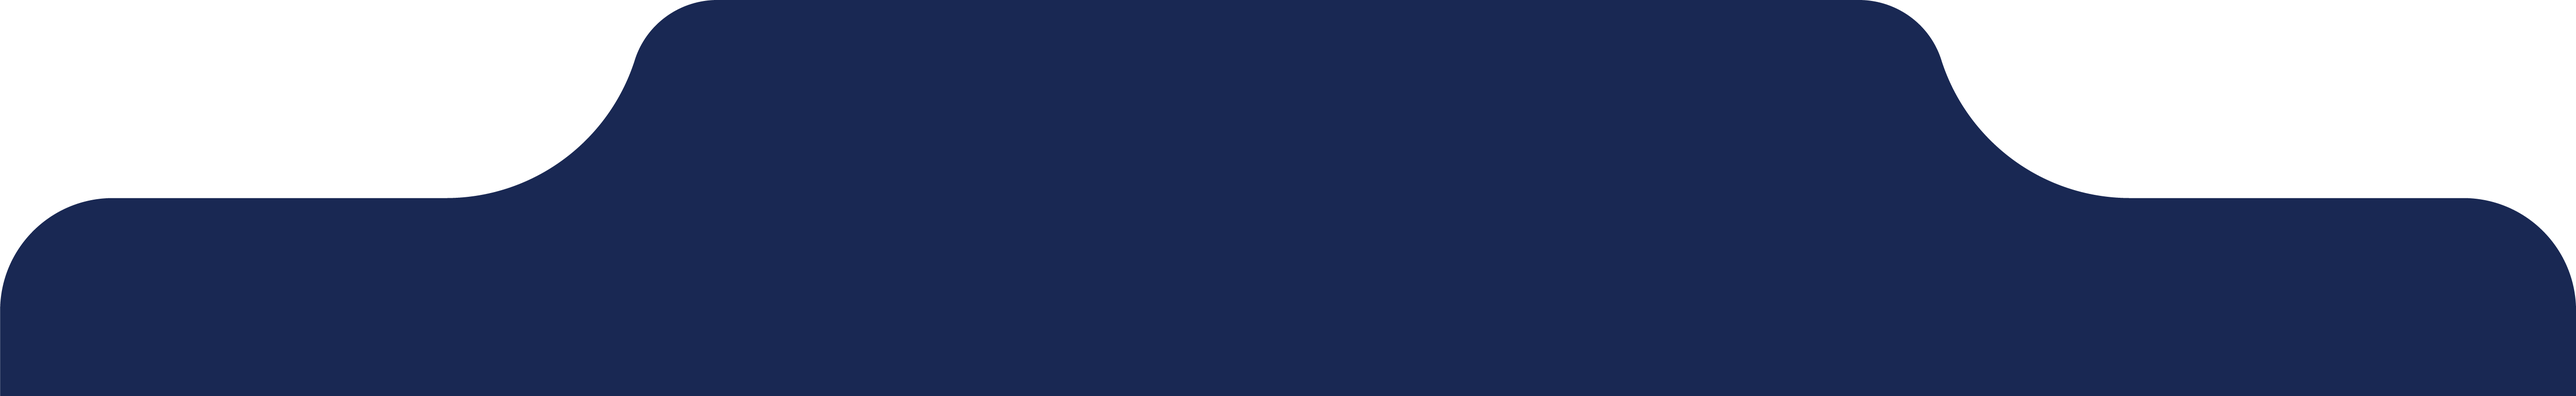
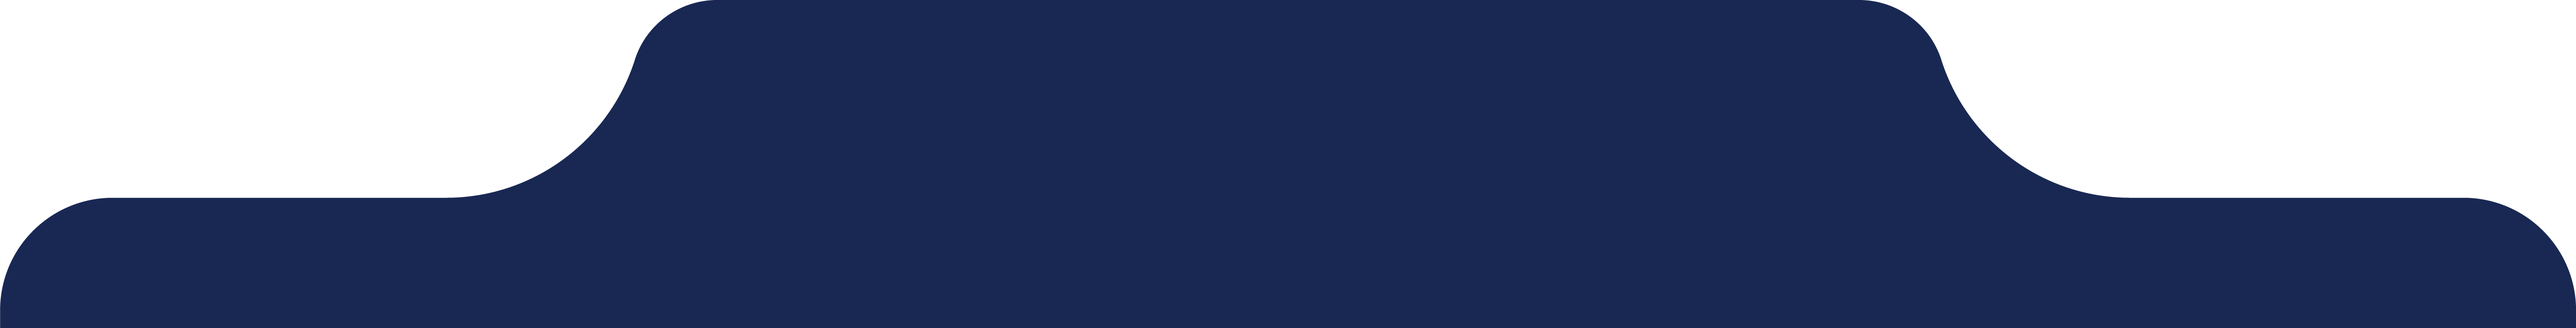
alignment fixed

Changed region(s): [[0.7488, 0.2431, 1.0, 0.9117], [0.0, 0.2431, 0.2496, 0.8205]]

diff --git a/src/Components/HomePage.jsx b/src/Components/HomePage.jsx
@@ -658,9 +658,9 @@ class HomePage extends Component {
                     </div>
 
                     {/* testimonial */}
-                    {/* <div className="container-fluid p-xl position-relative py-5">
+                    <div className="container-fluid p-xl position-relative py-5">
                         <div className="col-12 position-relative">
-                            <div className="shape_parent_sec" style={{height: '85%'}}>
+                            <div className="shape_parent_sec testimonial_sec_parent">
                                 <img src="assets/images/shapes/cropped-shape/shape-3-1.png" className="w-100 shape_c shape_top" alt="" />
                                 <div className="middle_shape"></div>
                                 <img src="assets/images/shapes/cropped-shape/shape-3-2.png" className="w-100 shape_c shape_bottom" alt="" />
@@ -740,8 +740,9 @@ class HomePage extends Component {
                                 </div>
                             </div>
                         </div>
-                    </div> */}
+                    </div>
                 </section>
+
 
                 <section className="py-5">
                     <div className="container-fluid p-xl text-center">
@@ -795,6 +796,80 @@ class HomePage extends Component {
                                     </SwiperSlide>
                                 ))}
                             </Swiper>
+                        </div>
+                    </div>
+                </section>
+
+                {/* tabs */}
+                <section>
+                    <div className="container-fluid p-xl position-relative py-5 course-section">
+                        <div className="col-12 position-relative">
+                            <div className="shape_parent_sec course_sec_parent">
+                                <img src="assets/images/shapes/cropped-shape/shape-4-1.png" className="w-100 shape_c shape_top" alt="" />
+                                <div className="middle_shape"></div>
+                                <img src="assets/images/shapes/cropped-shape/shape-4-2.png" className="w-100 shape_c shape_bottom" alt="" />
+                            </div>
+                            <div className="course-container">
+                                <div className="row">
+                                    {/* LEFT SIDE TABS */}
+                                    <div className="col-lg-6">
+                                        <div className="tabs-box">
+                                            <h2 className="section_title ">
+                                                Access Premium <br />
+                                                <span>Recorded Courses</span>
+                                            </h2>
+
+                                            {/* <div className="selected-tab">{activeTab}</div> */}
+
+                                            <ul className="tabs-list mt-4">
+                                                {tabs.map((tab, index) => (
+                                                    <li
+                                                        key={index}
+                                                        className={`tab-item ${activeTab === tab ? "active" : ""}`}
+                                                        onClick={() => this.handleTabClick(tab)}
+                                                    >
+                                                        {tab} <span className="arrow">›</span>
+                                                    </li>
+                                                ))}
+                                            </ul>
+
+                                            <button className="explore-btn w-50">Explore More</button>
+                                        </div>
+                                    </div>
+
+                                    {/* RIGHT SIDE CARDS */}
+                                    <div className="col-lg-6 d-flex justify-content-center">
+                                        <div className="cards-box" style={{ width: '85%' }}>
+                                            {coursesData[activeTab].map((course, index) => {
+                                                const bgClass = index % 2 === 0 ? "bg-shape-a" : "bg-shape-b";
+                                                return (
+                                                    <div className={`row course-tab-card d-flex ${bgClass}`} key={index}>
+                                                        <div className="col-4">
+                                                            <div className="tab_img_parent position-relative">
+                                                                <img src={course.img} className="card-img" alt={course.title} />
+                                                            </div>
+                                                        </div>
+                                                        <div className="col-8">
+                                                            <div className="card-content">
+                                                                <div className="inner_card_content">
+                                                                    <h4>{course.title}</h4>
+
+                                                                    <div className="card-footer">
+                                                                        <span className="hrs">
+                                                                            <i className="bi bi-clock pe-2"></i>
+                                                                            {course.hrs}</span>
+                                                                        <button className="view-btn">View</button>
+                                                                    </div>
+                                                                </div>
+                                                            </div>
+                                                        </div>
+                                                    </div>
+                                                )
+                                            })}
+                                        </div>
+                                    </div>
+                                </div>
+                            </div>
                         </div>
                     </div>
                 </section>

diff --git a/src/index.css b/src/index.css
@@ -850,7 +850,7 @@ img {
     }
 
     .footer_blur_text h5 {
-        font-size: 100px;
+        font-size: 85px;
         bottom: 55px;
     }
 
@@ -1509,6 +1509,7 @@ section {
     top: auto !important;
     bottom: 15px !important;
     cursor: pointer;
+    box-shadow: 1px 1px 4px 0px #0000003d;
 }
 
 .testimonial_box_wrapper .swiper-button-prev:hover,
@@ -1551,6 +1552,15 @@ section {
 
 /* RESPONSIVE */
 @media (max-width: 768px) {
+    .testimonial_box_wrapper {
+        padding: 50px 10px;
+    }
+
+    .testi_name {
+        margin-top: 0;
+        margin-left: 0;
+    }
+
     /* .testimonial_row {
         flex-direction: column-reverse;
         text-align: center;
@@ -1562,6 +1572,7 @@ section {
 
     .testimonial_img_wrap {
         margin-bottom: 20px;
+        top: -70px;
     }
 }
 
@@ -1907,7 +1918,7 @@ section {
 
 .course-section .tabs-box {
     /* background: #0d234a; */
-    padding: 30px;
+    padding: 60px 55px 30px;
     border-radius: 25px;
     color: #fff;
     min-width: 280px;
@@ -1962,7 +1973,7 @@ section {
 }
 
 .course-section .explore-btn {
-    margin-top: 30px;
+    margin-top: 115px;
     background: #00c2ff;
     padding: 12px 25px;
     border-radius: 30px;
@@ -1981,7 +1992,7 @@ section {
 
 /* RIGHT CARDS */
 .course-section .course-tab-card {
-    padding: 35px 45px;
+    padding: 7vh;
     border-radius: 20px;
     margin-bottom: 5px;
     color: #fff;
@@ -2020,6 +2031,15 @@ section {
 
 .bg-shape-b .card-content {
     margin-top: 20px;
+}
+
+.course_sec_parent {
+    height: 85% !important;
+}
+
+.course-container {
+    position: relative;
+    z-index: 1;
 }
 
 .course-section .card-img {
@@ -2081,34 +2101,97 @@ section {
     transition: all .3s ease-out;
 }
 
+
+
 @media (max-width: 992px) {
+    .shape_parent_sec {
+        height: 100% !important;
+    }
+
     .course-section .course-container {
         flex-direction: column;
+    }
+
+    .course-section .explore-btn {
+        margin-top: 15px;
+    }
+
+    .course-section .bg-shape-b .card-img {
+        top: -13px;
+    }
+
+    .course-section .card-img {
+        width: 95px;
+        height: 110px;
+    }
+
+    .course-section .course-tab-card {
+        padding: 20px;
+    }
+
+    .course-section .bg-shape-a .card-img {
+        top: -35px;
+    }
+
+    .course-section .card-content h4 {
+        font-size: 11px;
+        margin: 23px 0 5px;
+    }
+
+    .course-section .hrs,
+    .course-section .view-btn {
+        padding: 3px 10px;
+        width: 86px;
+        font-size: 12px;
+    }
+
+    .course-section .cards-box {
+        margin-top: 35px;
+    }
+
+    .bg-shape-a .card-content {
+        margin-top: -15px;
     }
 
     .course-section .tabs-box,
     .course-section .cards-box {
         width: 100% !important;
     }
+
+    .course-section .tabs-box {
+        /* background: #0d234a; */
+        padding: 40px 15px 30px;
+    }
+}
+
+.testimonial_sec_parent {
+    height: 85% !important;
 }
 
 /* responsive */
 
-@media screen and (min-width: 991px) {
-    /* .nav-elements ul a.active::after {
-    content: "";
-    position: absolute;
-    bottom: -4px;
-    left: 0;
-    width: 100%;
-    height: 2px;
-    background-color: #000000;
-  } */
-}
+@media screen and (min-width: 991px) {}
 
 @media (max-width: 910px) {
+
+    .testimonial_box_wrapper .swiper-pagination,
+    .testimonial_box_wrapper .swiper-button-prev,
+    .testimonial_box_wrapper .swiper-button-next {
+        display: none;
+    }
+
+    .review_text {
+        font-size: 14px;
+        line-height: 1.5;
+    }
+
     .navbar_links.active .nav-elements {
         top: 75px;
+    }
+
+    .testi_name {
+        font-size: 15px;
+        margin: auto;
     }
 
     .count_clr img {

diff --git a/src/Components/Footer.jsx b/src/Components/Footer.jsx
@@ -8,7 +8,7 @@ class Footer extends Component {
             <>
                 <div className="footer_sec position-relative">
                     <div className="footer_blur_text"><h5>Velearn</h5></div>
-                    <div className="footer_container">
+                    <div className="container-fluid p-xl">
                         <div className="row page_links">
                             {/* Desktop View */}
                             <div className="d-none d-lg-block">
